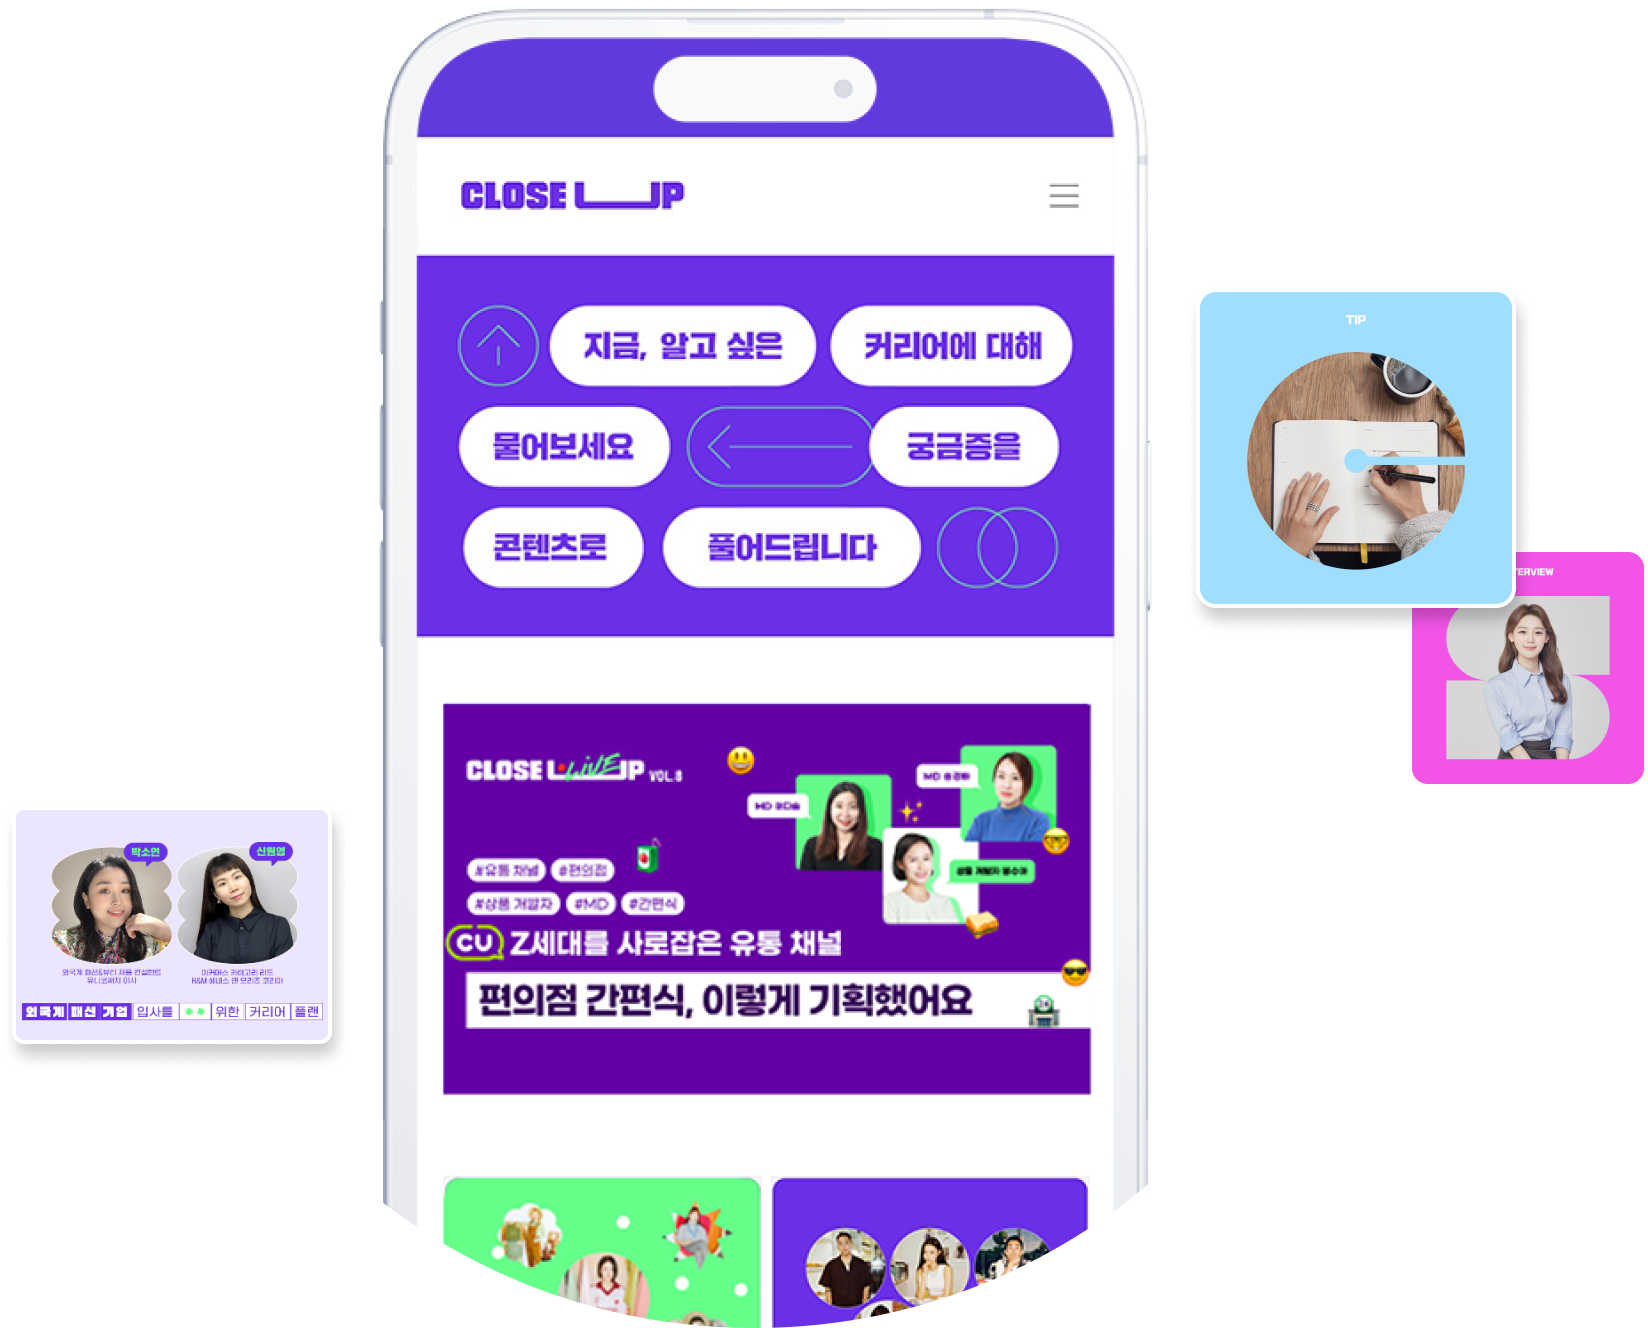
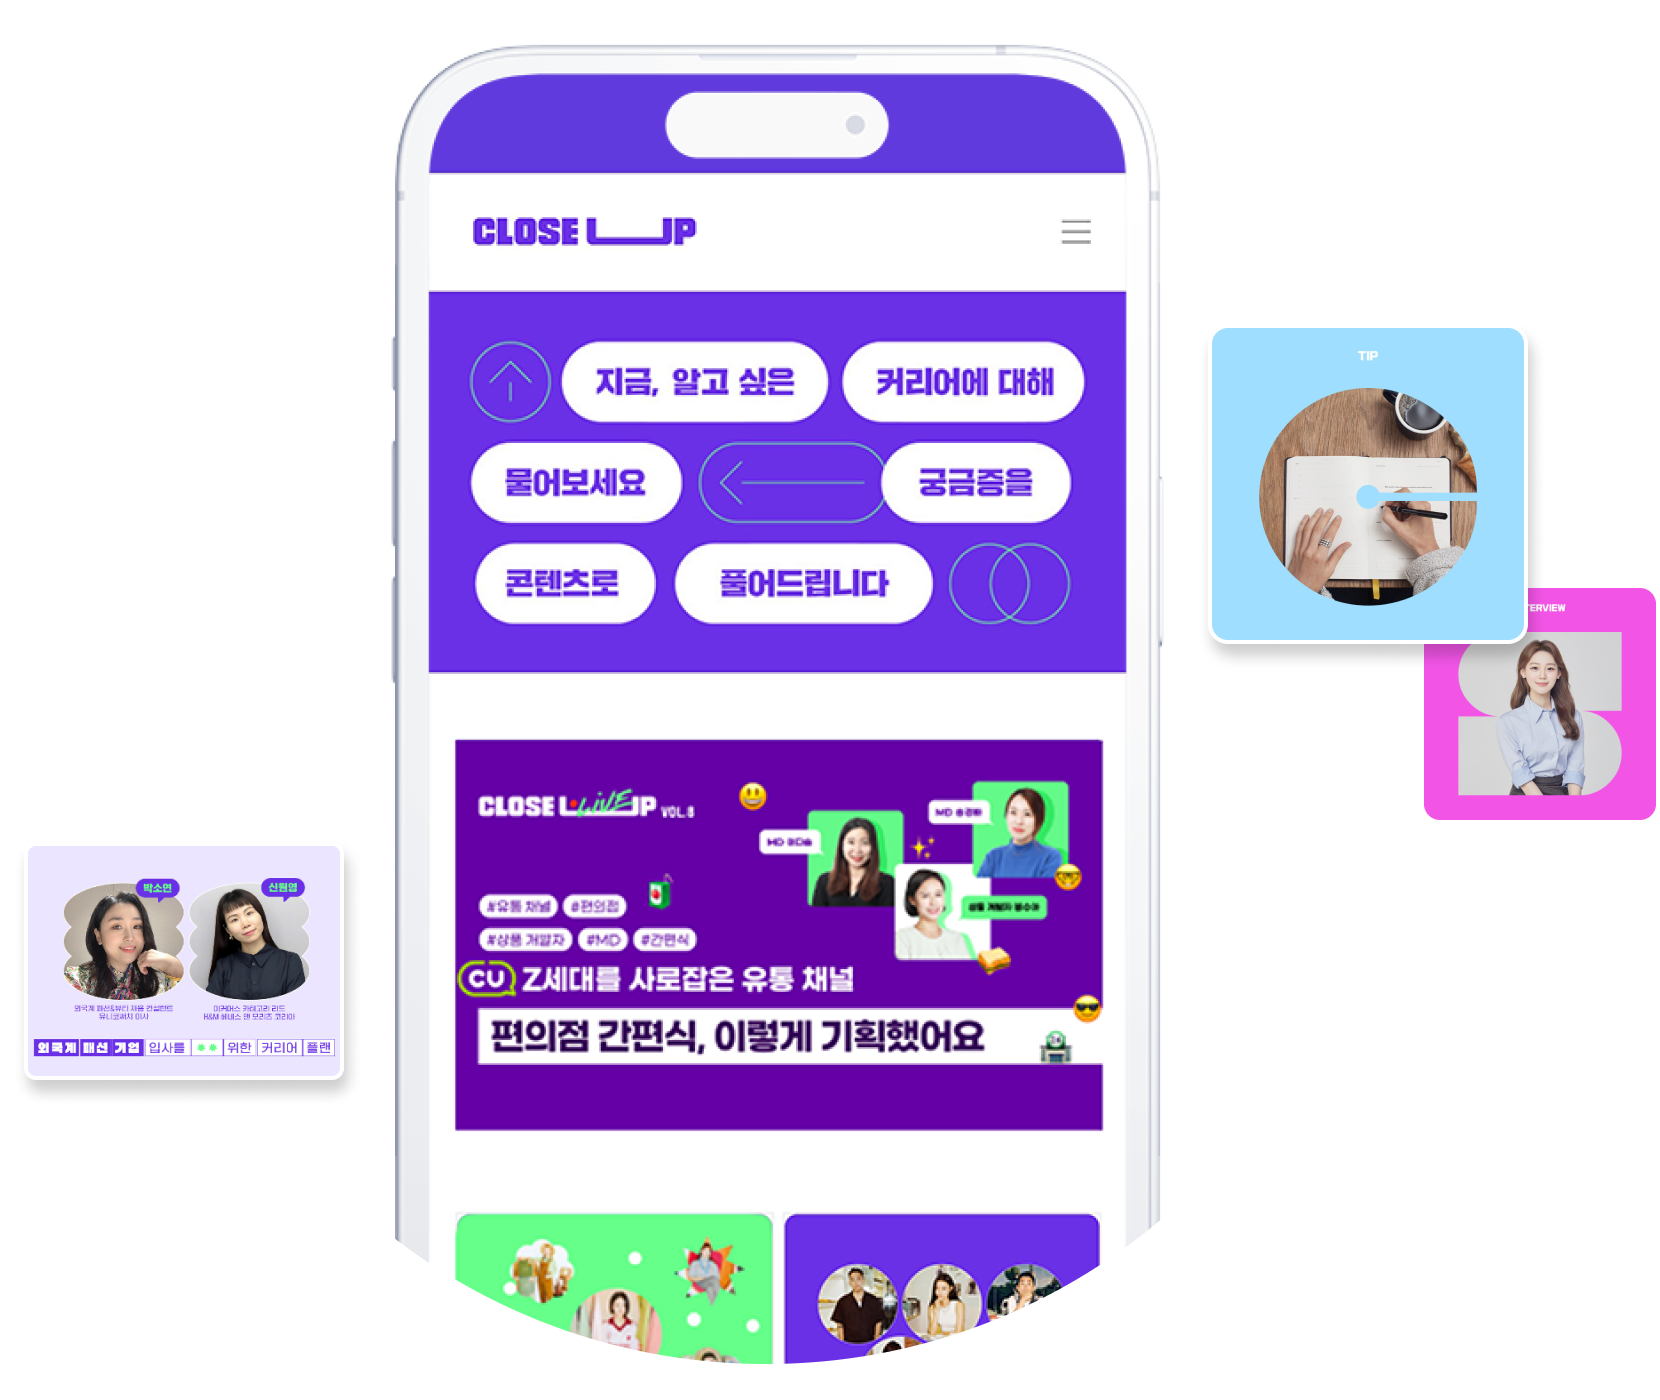
메인 버티컬 소개 이미지 교체

Changed region(s): [[0.0, 0.0, 1.0, 1.0]]

diff --git a/membership/resources/css/main2.css b/membership/resources/css/main2.css
@@ -80,14 +80,15 @@
 .mm .vertical .light .vt-t2 {color: #fff;}
 .mm .vertical .light .vt-t3 {color: #fff;}
 .mm .vertical .link-btn-wrap {justify-content: flex-start; margin-top: 60px;}
+.mm .vertical .col-img {max-width: 830px;}
 .mm .vertical.elle {background-color: #F2EFE8;}
-.mm .vertical.elle .col-img {max-width: 782px; margin-left: 110px;}
+.mm .vertical.elle .col-img {margin-left: 60px;}
 .mm .vertical.close-up {background-color: #6930E6;}
-.mm .vertical.close-up .col-img {max-width: 818px; margin-left: 70px;}
+.mm .vertical.close-up .col-img {margin-left: 60px;}
 .mm .vertical.artwalk {background-color: #111;}
-.mm .vertical.artwalk .col-img {max-width: 627px; margin-left: 90px;}
+.mm .vertical.artwalk .col-img {margin-left: 15px;}
 .mm .vertical.eee {background-color: #F7F7F7;}
-.mm .vertical.eee .col-img {max-width: 704px; margin-left: 240px;}
+.mm .vertical.eee .col-img {margin-left: 207px;}
  
 .floating-menu {position: fixed; bottom: 80px; right: 80px; z-index: 50; transition: 0.5s; opacity: 0;}
 .floating-menu.active {opacity: 1;}
@@ -165,10 +166,6 @@
     .mm .vertical .vt-t3 {margin-top: 10px; font-size: 14px; line-height: 1.5;}
     .mm .vertical .col-img {margin: 30px 0 0 !important;}
     .mm .vertical .col-img img {width: 100%;}
-    .mm .vertical.elle .col-img {max-width: 325px;}
-    .mm .vertical.close-up .col-img {max-width: 325px;}
-    .mm .vertical.artwalk .col-img {max-width: 297px;}
-    .mm .vertical.eee .col-img {max-width: 335px;}
 
     .floating-menu {bottom: 20px; right: 20px;}
     .floating-menu .fm-inner {position: relative;}
